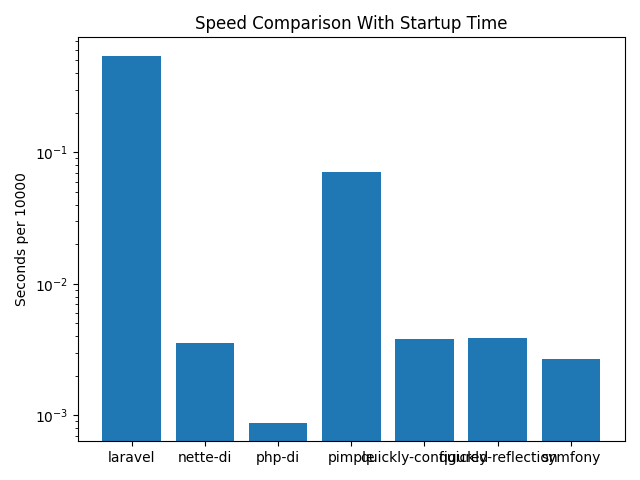
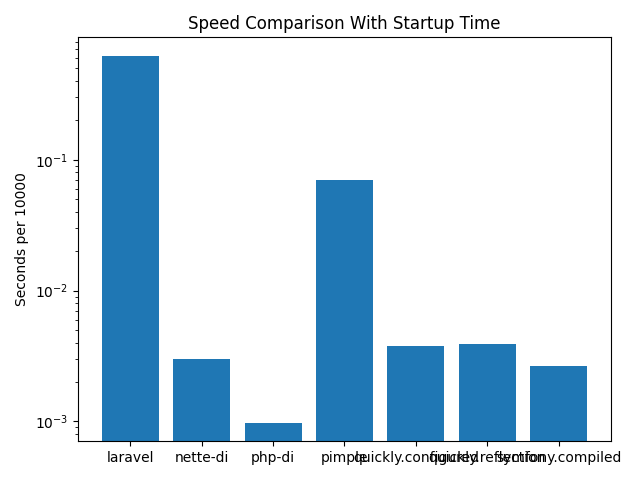
Update test results

diff --git a/README.md b/README.md
@@ -6,13 +6,13 @@ This repository benchmarks different dependency injection containers.
 
 | Container | Average | Minimum | Maximum |
 | --- | --- | --- | --- |
-| laravel | 0.54339866638184 | 0.54111003875732 | 0.54484415054321 |
-| nette-di | 0.0035543918609619 | 0.0034959316253662 | 0.0036489963531494 |
-| php-di | 0.0008756160736084 | 0.00085783004760742 | 0.00089812278747559 |
-| pimple | 0.071143674850464 | 0.070804834365845 | 0.071427822113037 |
-| quickly-configured | 0.0037946701049805 | 0.0037760734558105 | 0.0038189888000488 |
-| quickly-reflection | 0.0038434505462646 | 0.0038201808929443 | 0.0038700103759766 |
-| symfony | 0.0026634693145752 | 0.0026500225067139 | 0.0027010440826416 |
+| laravel | 0.62366602420807 | 0.61828398704529 | 0.62728810310364 |
+| nette-di | 0.0029822111129761 | 0.0029549598693848 | 0.0030529499053955 |
+| php-di | 0.00097506046295166 | 0.00085997581481934 | 0.0011849403381348 |
+| pimple | 0.069588828086853 | 0.068902969360352 | 0.070394992828369 |
+| quickly.configured | 0.003791332244873 | 0.00376296043396 | 0.0038180351257324 |
+| quickly.reflection | 0.0039303779602051 | 0.0038762092590332 | 0.0040378570556641 |
+| symfony.compiled | 0.0026478052139282 | 0.0025839805603027 | 0.002720832824707 |
 
 ![Speed comparison without startup time](speed_comparison_without_startup.png)
 
@@ -24,142 +24,226 @@ Results from the latest automated run of the Dockerized benchmarks
 (triggered on pushes to main and a monthly schedule):
 
 ### laravel
-run 0: 0.54377603530884 seconds per 10000
-run 1: 0.54319286346436 seconds per 10000
-run 2: 0.54123091697693 seconds per 10000
-run 3: 0.54375791549683 seconds per 10000
-run 4: 0.54450297355652 seconds per 10000
+```
+run 0: 0.62278413772583 seconds per 10000
+run 1: 0.62548398971558 seconds per 10000
+run 2: 0.62321782112122 seconds per 10000
+run 3: 0.62448287010193 seconds per 10000
+run 4: 0.62815809249878 seconds per 10000
+run 5: 0.62596487998962 seconds per 10000
+run 6: 0.62618589401245 seconds per 10000
+run 7: 0.62603211402893 seconds per 10000
+run 8: 0.62354898452759 seconds per 10000
+run 9: 0.62296414375305 seconds per 10000
 
 AVERAGE | MINIMUM | MAXIMUM
-0.54329214096069 | 0.54123091697693 | 0.54450297355652
+0.6248822927475 | 0.62278413772583 | 0.62815809249878
 
 INCLUDING STARTUP TIME
-run 0: 0.54429697990417 seconds per 10000
-run 1: 0.54484415054321 seconds per 10000
-run 2: 0.54111003875732 seconds per 10000
-run 3: 0.54353904724121 seconds per 10000
-run 4: 0.54320311546326 seconds per 10000
+run 0: 0.62483406066895 seconds per 10000
+run 1: 0.62558197975159 seconds per 10000
+run 2: 0.62603902816772 seconds per 10000
+run 3: 0.62575006484985 seconds per 10000
+run 4: 0.61964011192322 seconds per 10000
+run 5: 0.61828398704529 seconds per 10000
+run 6: 0.62728810310364 seconds per 10000
+run 7: 0.61896705627441 seconds per 10000
+run 8: 0.62512683868408 seconds per 10000
+run 9: 0.62514901161194 seconds per 10000
 
 AVERAGE | MINIMUM | MAXIMUM
-0.54339866638184 | 0.54111003875732 | 0.54484415054321
+0.62366602420807 | 0.61828398704529 | 0.62728810310364
+```
 
 ### nette-di
-run 0: 0.0033588409423828 seconds per 10000
-run 1: 0.003554105758667 seconds per 10000
-run 2: 0.0034871101379395 seconds per 10000
-run 3: 0.0034840106964111 seconds per 10000
-run 4: 0.0034749507904053 seconds per 10000
+```
+run 0: 0.0028500556945801 seconds per 10000
+run 1: 0.0029959678649902 seconds per 10000
+run 2: 0.002938985824585 seconds per 10000
+run 3: 0.002924919128418 seconds per 10000
+run 4: 0.0029380321502686 seconds per 10000
+run 5: 0.0029268264770508 seconds per 10000
+run 6: 0.002918004989624 seconds per 10000
+run 7: 0.0029349327087402 seconds per 10000
+run 8: 0.0029041767120361 seconds per 10000
+run 9: 0.0029299259185791 seconds per 10000
 
 AVERAGE | MINIMUM | MAXIMUM
-0.0034718036651611 | 0.0033588409423828 | 0.003554105758667
+0.0029261827468872 | 0.0028500556945801 | 0.0029959678649902
 
 INCLUDING STARTUP TIME
-run 0: 0.0035059452056885 seconds per 10000
-run 1: 0.003511905670166 seconds per 10000
-run 2: 0.0036489963531494 seconds per 10000
-run 3: 0.0036091804504395 seconds per 10000
-run 4: 0.0034959316253662 seconds per 10000
+run 0: 0.0030529499053955 seconds per 10000
+run 1: 0.0029549598693848 seconds per 10000
+run 2: 0.0029611587524414 seconds per 10000
+run 3: 0.002971887588501 seconds per 10000
+run 4: 0.0029640197753906 seconds per 10000
+run 5: 0.0029730796813965 seconds per 10000
+run 6: 0.0029771327972412 seconds per 10000
+run 7: 0.002993106842041 seconds per 10000
+run 8: 0.0029959678649902 seconds per 10000
+run 9: 0.0029778480529785 seconds per 10000
 
 AVERAGE | MINIMUM | MAXIMUM
-0.0035543918609619 | 0.0034959316253662 | 0.0036489963531494
+0.0029822111129761 | 0.0029549598693848 | 0.0030529499053955
+```
 
 ### php-di
-run 0: 0.0011858940124512 seconds per 10000
-run 1: 0.00098299980163574 seconds per 10000
-run 2: 0.000823974609375 seconds per 10000
-run 3: 0.00082588195800781 seconds per 10000
-run 4: 0.00078296661376953 seconds per 10000
+```
+run 0: 0.0012049674987793 seconds per 10000
+run 1: 0.00091218948364258 seconds per 10000
+run 2: 0.0008540153503418 seconds per 10000
+run 3: 0.00086092948913574 seconds per 10000
+run 4: 0.00083613395690918 seconds per 10000
+run 5: 0.00082588195800781 seconds per 10000
+run 6: 0.00083518028259277 seconds per 10000
+run 7: 0.00081896781921387 seconds per 10000
+run 8: 0.00082802772521973 seconds per 10000
+run 9: 0.0008080005645752 seconds per 10000
 
 AVERAGE | MINIMUM | MAXIMUM
-0.00092034339904785 | 0.00078296661376953 | 0.0011858940124512
+0.0008784294128418 | 0.0008080005645752 | 0.0012049674987793
 
 INCLUDING STARTUP TIME
-run 0: 0.00089812278747559 seconds per 10000
-run 1: 0.00087809562683105 seconds per 10000
-run 2: 0.00086212158203125 seconds per 10000
-run 3: 0.00085783004760742 seconds per 10000
-run 4: 0.00088191032409668 seconds per 10000
+run 0: 0.00089693069458008 seconds per 10000
+run 1: 0.000885009765625 seconds per 10000
+run 2: 0.00087690353393555 seconds per 10000
+run 3: 0.00089001655578613 seconds per 10000
+run 4: 0.00085997581481934 seconds per 10000
+run 5: 0.00088000297546387 seconds per 10000
+run 6: 0.00092005729675293 seconds per 10000
+run 7: 0.0011849403381348 seconds per 10000
+run 8: 0.0011718273162842 seconds per 10000
+run 9: 0.0011849403381348 seconds per 10000
 
 AVERAGE | MINIMUM | MAXIMUM
-0.0008756160736084 | 0.00085783004760742 | 0.00089812278747559
+0.00097506046295166 | 0.00085997581481934 | 0.0011849403381348
+```
 
 ### pimple
-run 0: 0.069476127624512 seconds per 10000
-run 1: 0.070020914077759 seconds per 10000
-run 2: 0.070125818252563 seconds per 10000
-run 3: 0.069577217102051 seconds per 10000
-run 4: 0.069637060165405 seconds per 10000
+```
+run 0: 0.069967985153198 seconds per 10000
+run 1: 0.069994926452637 seconds per 10000
+run 2: 0.072631120681763 seconds per 10000
+run 3: 0.07016396522522 seconds per 10000
+run 4: 0.070085048675537 seconds per 10000
+run 5: 0.071794986724854 seconds per 10000
+run 6: 0.06949782371521 seconds per 10000
+run 7: 0.069652795791626 seconds per 10000
+run 8: 0.069462060928345 seconds per 10000
+run 9: 0.069409132003784 seconds per 10000
 
 AVERAGE | MINIMUM | MAXIMUM
-0.069767427444458 | 0.069476127624512 | 0.070125818252563
+0.070265984535217 | 0.069409132003784 | 0.072631120681763
 
 INCLUDING STARTUP TIME
-run 0: 0.071406841278076 seconds per 10000
-run 1: 0.070804834365845 seconds per 10000
-run 2: 0.070979833602905 seconds per 10000
-run 3: 0.071099042892456 seconds per 10000
-run 4: 0.071427822113037 seconds per 10000
+run 0: 0.06967306137085 seconds per 10000
+run 1: 0.069700002670288 seconds per 10000
+run 2: 0.070058107376099 seconds per 10000
+run 3: 0.069818019866943 seconds per 10000
+run 4: 0.069206953048706 seconds per 10000
+run 5: 0.069189071655273 seconds per 10000
+run 6: 0.068979024887085 seconds per 10000
+run 7: 0.068902969360352 seconds per 10000
+run 8: 0.069966077804565 seconds per 10000
+run 9: 0.070394992828369 seconds per 10000
 
 AVERAGE | MINIMUM | MAXIMUM
-0.071143674850464 | 0.070804834365845 | 0.071427822113037
+0.069588828086853 | 0.068902969360352 | 0.070394992828369
+```
 
-### quickly-configured
-run 0: 0.0036671161651611 seconds per 10000
-run 1: 0.0037610530853271 seconds per 10000
-run 2: 0.0037639141082764 seconds per 10000
-run 3: 0.0037479400634766 seconds per 10000
-run 4: 0.0037839412689209 seconds per 10000
+### quickly.configured
+```
+run 0: 0.0037891864776611 seconds per 10000
+run 1: 0.0038449764251709 seconds per 10000
+run 2: 0.0037169456481934 seconds per 10000
+run 3: 0.0037078857421875 seconds per 10000
+run 4: 0.0037670135498047 seconds per 10000
+run 5: 0.003741979598999 seconds per 10000
+run 6: 0.0037140846252441 seconds per 10000
+run 7: 0.0037569999694824 seconds per 10000
+run 8: 0.0037479400634766 seconds per 10000
+run 9: 0.0038058757781982 seconds per 10000
 
 AVERAGE | MINIMUM | MAXIMUM
-0.0037447929382324 | 0.0036671161651611 | 0.0037839412689209
+0.0037592887878418 | 0.0037078857421875 | 0.0038449764251709
 
 INCLUDING STARTUP TIME
-run 0: 0.0037951469421387 seconds per 10000
-run 1: 0.0038189888000488 seconds per 10000
-run 2: 0.0037760734558105 seconds per 10000
-run 3: 0.003803014755249 seconds per 10000
-run 4: 0.0037801265716553 seconds per 10000
+run 0: 0.0038070678710938 seconds per 10000
+run 1: 0.0038180351257324 seconds per 10000
+run 2: 0.0037729740142822 seconds per 10000
+run 3: 0.0037820339202881 seconds per 10000
+run 4: 0.00376296043396 seconds per 10000
+run 5: 0.0037901401519775 seconds per 10000
+run 6: 0.0037751197814941 seconds per 10000
+run 7: 0.0038149356842041 seconds per 10000
+run 8: 0.0037879943847656 seconds per 10000
+run 9: 0.0038020610809326 seconds per 10000
 
 AVERAGE | MINIMUM | MAXIMUM
-0.0037946701049805 | 0.0037760734558105 | 0.0038189888000488
+0.003791332244873 | 0.00376296043396 | 0.0038180351257324
+```
 
-### quickly-reflection
-run 0: 0.0038650035858154 seconds per 10000
-run 1: 0.0037600994110107 seconds per 10000
-run 2: 0.00382399559021 seconds per 10000
-run 3: 0.0037620067596436 seconds per 10000
-run 4: 0.0037720203399658 seconds per 10000
+### quickly.reflection
+```
+run 0: 0.0038979053497314 seconds per 10000
+run 1: 0.0039751529693604 seconds per 10000
+run 2: 0.0038690567016602 seconds per 10000
+run 3: 0.003878116607666 seconds per 10000
+run 4: 0.0038859844207764 seconds per 10000
+run 5: 0.0038089752197266 seconds per 10000
+run 6: 0.0037519931793213 seconds per 10000
+run 7: 0.0039041042327881 seconds per 10000
+run 8: 0.0038959980010986 seconds per 10000
+run 9: 0.0038700103759766 seconds per 10000
 
 AVERAGE | MINIMUM | MAXIMUM
-0.0037966251373291 | 0.0037600994110107 | 0.0038650035858154
+0.0038737297058105 | 0.0037519931793213 | 0.0039751529693604
 
 INCLUDING STARTUP TIME
-run 0: 0.0038330554962158 seconds per 10000
-run 1: 0.0038700103759766 seconds per 10000
-run 2: 0.0038201808929443 seconds per 10000
-run 3: 0.003849983215332 seconds per 10000
-run 4: 0.0038440227508545 seconds per 10000
+run 0: 0.0040378570556641 seconds per 10000
+run 1: 0.0038762092590332 seconds per 10000
+run 2: 0.003917932510376 seconds per 10000
+run 3: 0.0039207935333252 seconds per 10000
+run 4: 0.0038900375366211 seconds per 10000
+run 5: 0.0039329528808594 seconds per 10000
+run 6: 0.0038859844207764 seconds per 10000
+run 7: 0.00388503074646 seconds per 10000
+run 8: 0.0039598941802979 seconds per 10000
+run 9: 0.0039970874786377 seconds per 10000
 
 AVERAGE | MINIMUM | MAXIMUM
-0.0038434505462646 | 0.0038201808929443 | 0.0038700103759766
+0.0039303779602051 | 0.0038762092590332 | 0.0040378570556641
+```
 
-### symfony
-run 0: 0.0021319389343262 seconds per 10000
-run 1: 0.0022192001342773 seconds per 10000
-run 2: 0.0022470951080322 seconds per 10000
-run 3: 0.0025680065155029 seconds per 10000
-run 4: 0.002230167388916 seconds per 10000
+### symfony.compiled
+```
+run 0: 0.0021710395812988 seconds per 10000
+run 1: 0.0022461414337158 seconds per 10000
+run 2: 0.0022220611572266 seconds per 10000
+run 3: 0.002187967300415 seconds per 10000
+run 4: 0.002249002456665 seconds per 10000
+run 5: 0.0022251605987549 seconds per 10000
+run 6: 0.0021798610687256 seconds per 10000
+run 7: 0.0021698474884033 seconds per 10000
+run 8: 0.0022208690643311 seconds per 10000
+run 9: 0.0022180080413818 seconds per 10000
 
 AVERAGE | MINIMUM | MAXIMUM
-0.0022792816162109 | 0.0021319389343262 | 0.0025680065155029
+0.0022089958190918 | 0.0021698474884033 | 0.002249002456665
 
 INCLUDING STARTUP TIME
-run 0: 0.0027010440826416 seconds per 10000
-run 1: 0.0026559829711914 seconds per 10000
-run 2: 0.0026581287384033 seconds per 10000
-run 3: 0.0026521682739258 seconds per 10000
-run 4: 0.0026500225067139 seconds per 10000
+run 0: 0.002720832824707 seconds per 10000
+run 1: 0.0026850700378418 seconds per 10000
+run 2: 0.0026400089263916 seconds per 10000
+run 3: 0.0026900768280029 seconds per 10000
+run 4: 0.0025839805603027 seconds per 10000
+run 5: 0.0026369094848633 seconds per 10000
+run 6: 0.0026609897613525 seconds per 10000
+run 7: 0.0026071071624756 seconds per 10000
+run 8: 0.0026230812072754 seconds per 10000
+run 9: 0.0026299953460693 seconds per 10000
 
 AVERAGE | MINIMUM | MAXIMUM
-0.0026634693145752 | 0.0026500225067139 | 0.0027010440826416
+0.0026478052139282 | 0.0025839805603027 | 0.002720832824707
+```
 
